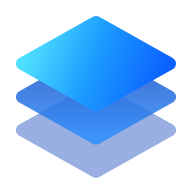
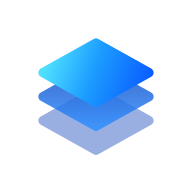
홈 화면 아이콘 로고 비율을 남색 바탕 때(84%)로, 상단 로고를 28px로
- planner-192·512, apple-touch-icon: 투명 바탕은 유지하고 로고 크기를 남색 바탕 아이콘과 같은 비율(512 기준 0.84 배율)로 줄임
- 플래너·자산 상단 로고 22px → 28px
- 자산 버전 552 → 553

Claude-Session: https://claude.ai/code/session_01Ek3VF4UfDGVBZt9VnxKtgV

Changed region(s): [[0.0625, 0.0625, 0.9375, 0.9375]]

diff --git a/index.html b/index.html
@@ -23,15 +23,15 @@
   <meta name="apple-mobile-web-app-title" content="매매 플래너" />
   <meta name="apple-mobile-web-app-status-bar-style" content="default" />
   <link rel="preconnect" href="https://cdn.jsdelivr.net" crossorigin />
-  <script src="js/theme.js?v=552"></script>
+  <script src="js/theme.js?v=553"></script>
   <link rel="stylesheet" href="https://cdn.jsdelivr.net/gh/orioncactus/pretendard@v1.3.9/dist/web/variable/pretendardvariable-dynamic-subset.min.css" />
-  <link rel="stylesheet" href="css/safe-area.css?v=552" />
-  <link rel="stylesheet" href="css/app.css?v=552" />
-  <link rel="stylesheet" href="css/purchases.css?v=552" />
-  <link rel="stylesheet" href="css/page-leave.css?v=552" />
-  <script src="js/repo-security.js?v=552" defer></script>
-  <script src="js/gold-estimate.js?v=552" defer></script>
-  <script src="js/money-input.js?v=552" defer></script>
+  <link rel="stylesheet" href="css/safe-area.css?v=553" />
+  <link rel="stylesheet" href="css/app.css?v=553" />
+  <link rel="stylesheet" href="css/purchases.css?v=553" />
+  <link rel="stylesheet" href="css/page-leave.css?v=553" />
+  <script src="js/repo-security.js?v=553" defer></script>
+  <script src="js/gold-estimate.js?v=553" defer></script>
+  <script src="js/money-input.js?v=553" defer></script>
 </head>
 <body class="planner-page">
   <header class="top">
@@ -360,36 +360,36 @@
   <dialog id="futureRebuyStartDialog" aria-labelledby="futureRebuyStartTitle"></dialog>
   <dialog id="rebuyRuleDialog" aria-labelledby="rebuyRuleTitle"></dialog>
 
-  <script src="js/ma-ladder.js?v=552" defer></script>
-  <script src="js/split-auto.js?v=552" defer></script>
-  <script src="js/data-validation.js?v=552" defer></script>
-  <script src="js/core.js?v=552" defer></script>
-  <script src="js/price-collection.js?v=552" defer></script>
-  <script src="js/page-leave.js?v=552" defer></script>
-  <script src="js/sync.js?v=552" defer></script>
-  <script src="js/prices.js?v=552" defer></script>
-  <script src="js/assets-calc.js?v=552" defer></script>
-  <script src="js/assets-store.js?v=552" defer></script>
-  <script src="js/alloc-link.js?v=552" defer></script>
-  <script src="js/stock-names.js?v=552" defer></script>
-  <script src="js/item-search.js?v=552" defer></script>
-  <script src="js/purchases.js?v=552" defer></script>
-  <script src="js/trade-alerts.js?v=552" defer></script>
-  <script src="js/plans.js?v=552" defer></script>
-  <script src="js/futures.js?v=552" defer></script>
-  <script src="js/futures-plan.js?v=552" defer></script>
-  <script src="js/futures-rebuy.js?v=552" defer></script>
-  <script src="js/rebuy.js?v=552" defer></script>
-  <script src="js/alerts.js?v=552" defer></script>
-  <script src="js/alert-target.js?v=552" defer></script>
-  <script src="js/alert-history-store.js?v=552" defer></script>
-  <script src="js/alert-history.js?v=552" defer></script>
-  <script src="js/push.js?v=552" defer></script>
-  <script src="js/member-link.js?v=552" defer></script>
-  <script src="js/member-go.js?v=552" defer></script>
-  <script src="js/split-adjust.js?v=552" defer></script>
-  <script src="js/split-dialog.js?v=552" defer></script>
-  <script src="js/split-notices.js?v=552" defer></script>
-  <script src="js/start.js?v=552" defer></script>
+  <script src="js/ma-ladder.js?v=553" defer></script>
+  <script src="js/split-auto.js?v=553" defer></script>
+  <script src="js/data-validation.js?v=553" defer></script>
+  <script src="js/core.js?v=553" defer></script>
+  <script src="js/price-collection.js?v=553" defer></script>
+  <script src="js/page-leave.js?v=553" defer></script>
+  <script src="js/sync.js?v=553" defer></script>
+  <script src="js/prices.js?v=553" defer></script>
+  <script src="js/assets-calc.js?v=553" defer></script>
+  <script src="js/assets-store.js?v=553" defer></script>
+  <script src="js/alloc-link.js?v=553" defer></script>
+  <script src="js/stock-names.js?v=553" defer></script>
+  <script src="js/item-search.js?v=553" defer></script>
+  <script src="js/purchases.js?v=553" defer></script>
+  <script src="js/trade-alerts.js?v=553" defer></script>
+  <script src="js/plans.js?v=553" defer></script>
+  <script src="js/futures.js?v=553" defer></script>
+  <script src="js/futures-plan.js?v=553" defer></script>
+  <script src="js/futures-rebuy.js?v=553" defer></script>
+  <script src="js/rebuy.js?v=553" defer></script>
+  <script src="js/alerts.js?v=553" defer></script>
+  <script src="js/alert-target.js?v=553" defer></script>
+  <script src="js/alert-history-store.js?v=553" defer></script>
+  <script src="js/alert-history.js?v=553" defer></script>
+  <script src="js/push.js?v=553" defer></script>
+  <script src="js/member-link.js?v=553" defer></script>
+  <script src="js/member-go.js?v=553" defer></script>
+  <script src="js/split-adjust.js?v=553" defer></script>
+  <script src="js/split-dialog.js?v=553" defer></script>
+  <script src="js/split-notices.js?v=553" defer></script>
+  <script src="js/start.js?v=553" defer></script>
 </body>
 </html>

diff --git a/assets.html b/assets.html
@@ -24,15 +24,15 @@
   <meta name="apple-mobile-web-app-title" content="매매 플래너" />
   <meta name="apple-mobile-web-app-status-bar-style" content="default" />
   <link rel="preconnect" href="https://cdn.jsdelivr.net" crossorigin />
-  <script src="js/theme.js?v=552"></script>
+  <script src="js/theme.js?v=553"></script>
   <link rel="stylesheet" href="https://cdn.jsdelivr.net/gh/orioncactus/pretendard@v1.3.9/dist/web/variable/pretendardvariable-dynamic-subset.min.css" />
-  <link rel="stylesheet" href="css/safe-area.css?v=552" />
-  <link rel="stylesheet" href="css/app.css?v=552" />
-  <link rel="stylesheet" href="css/assets.css?v=552" />
-  <link rel="stylesheet" href="css/page-leave.css?v=552" />
-  <script src="js/repo-security.js?v=552" defer></script>
-  <script src="js/gold-estimate.js?v=552" defer></script>
-  <script src="js/money-input.js?v=552" defer></script>
+  <link rel="stylesheet" href="css/safe-area.css?v=553" />
+  <link rel="stylesheet" href="css/app.css?v=553" />
+  <link rel="stylesheet" href="css/assets.css?v=553" />
+  <link rel="stylesheet" href="css/page-leave.css?v=553" />
+  <script src="js/repo-security.js?v=553" defer></script>
+  <script src="js/gold-estimate.js?v=553" defer></script>
+  <script src="js/money-input.js?v=553" defer></script>
 </head>
 <body class="assets-page">
   <header class="top">
@@ -161,22 +161,22 @@
     <p class="file-tools">JSON 파일 <button class="text-link" id="exportBtn" type="button">백업</button> · <label class="text-link" for="importInput">복원<input id="importInput" type="file" accept="application/json" hidden /></label></p>
   </div></dialog>
 
-  <script src="js/ma-ladder.js?v=552" defer></script>
-  <script src="js/split-auto.js?v=552" defer></script>
-  <script src="js/data-validation.js?v=552" defer></script>
-  <script src="js/assets-calc.js?v=552" defer></script>
-  <script src="js/price-collection.js?v=552" defer></script>
-  <script src="js/page-leave.js?v=552" defer></script>
-  <script src="js/assets-store.js?v=552" defer></script>
-  <script src="js/alloc-link.js?v=552" defer></script>
-  <script src="js/member-link.js?v=552" defer></script>
-  <script src="js/stock-names.js?v=552" defer></script>
-  <script src="js/ledger-benchmark.js?v=552" defer></script>
-  <script src="js/assets.js?v=552" defer></script>
-  <script src="js/assets-ledger.js?v=552" defer></script>
-  <script src="js/assets-savings.js?v=552" defer></script>
-  <script src="js/assets-installments.js?v=552" defer></script>
-  <script src="js/split-notices.js?v=552" defer></script>
-  <script src="js/assets-start.js?v=552" defer></script>
+  <script src="js/ma-ladder.js?v=553" defer></script>
+  <script src="js/split-auto.js?v=553" defer></script>
+  <script src="js/data-validation.js?v=553" defer></script>
+  <script src="js/assets-calc.js?v=553" defer></script>
+  <script src="js/price-collection.js?v=553" defer></script>
+  <script src="js/page-leave.js?v=553" defer></script>
+  <script src="js/assets-store.js?v=553" defer></script>
+  <script src="js/alloc-link.js?v=553" defer></script>
+  <script src="js/member-link.js?v=553" defer></script>
+  <script src="js/stock-names.js?v=553" defer></script>
+  <script src="js/ledger-benchmark.js?v=553" defer></script>
+  <script src="js/assets.js?v=553" defer></script>
+  <script src="js/assets-ledger.js?v=553" defer></script>
+  <script src="js/assets-savings.js?v=553" defer></script>
+  <script src="js/assets-installments.js?v=553" defer></script>
+  <script src="js/split-notices.js?v=553" defer></script>
+  <script src="js/assets-start.js?v=553" defer></script>
 </body>
 </html>

diff --git a/valuation.html b/valuation.html
@@ -22,17 +22,17 @@
   <meta name="apple-mobile-web-app-title" content="매매 플래너">
   <meta name="apple-mobile-web-app-status-bar-style" content="default">
   <link rel="preconnect" href="https://cdn.jsdelivr.net" crossorigin>
-  <script src="js/theme.js?v=552"></script>
+  <script src="js/theme.js?v=553"></script>
   <link rel="stylesheet" href="https://cdn.jsdelivr.net/gh/orioncactus/pretendard@v1.3.9/dist/web/variable/pretendardvariable-dynamic-subset.min.css">
   <title>AI 구독 · 삼성SDI · ETF · 환율 시나리오</title>
   <meta name="description" content="AI 구독사업, 삼성SDI, ETF의 장기 가치와 한미 GDP·M2로 계산한 원·달러 상대 통화압력을 살펴봅니다.">
-  <link rel="stylesheet" href="css/safe-area.css?v=552">
-  <link rel="stylesheet" href="css/currency-pressure.css?v=552">
-  <link rel="stylesheet" href="css/valuation.css?v=552">
-  <link rel="stylesheet" href="css/page-leave.css?v=552">
-  <script src="js/repo-security.js?v=552" defer></script>
-  <script src="js/gold-estimate.js?v=552" defer></script>
-  <script src="js/money-input.js?v=552" defer></script>
+  <link rel="stylesheet" href="css/safe-area.css?v=553">
+  <link rel="stylesheet" href="css/currency-pressure.css?v=553">
+  <link rel="stylesheet" href="css/valuation.css?v=553">
+  <link rel="stylesheet" href="css/page-leave.css?v=553">
+  <script src="js/repo-security.js?v=553" defer></script>
+  <script src="js/gold-estimate.js?v=553" defer></script>
+  <script src="js/money-input.js?v=553" defer></script>
 </head>
 <body>
 <header class="top">
@@ -483,8 +483,8 @@
     <p class="tiny" style="margin:12px 0 0">직접 바꾼 값만 저장합니다. 바꾸지 않은 기준 종가·시총 등은 페이지가 갱신되면 새 기준값을 따릅니다.</p>
   </div>
 </dialog>
-<script src="js/page-leave.js?v=552" defer></script>
-<script src="js/valuation.js?v=552" defer></script>
-<script src="js/currency-pressure.js?v=552" defer></script>
+<script src="js/page-leave.js?v=553" defer></script>
+<script src="js/valuation.js?v=553" defer></script>
+<script src="js/currency-pressure.js?v=553" defer></script>
 </body>
 </html>

diff --git a/css/app.css b/css/app.css
@@ -366,8 +366,8 @@ details.future-roll>.future-roll-head::before{content:"";width:6px;height:6px;bo
 .planner-page .planner-brand{display:flex;align-items:center;gap:8px;min-width:0}
 .planner-page .top .brand{gap:9px;font-size:17px;font-weight:800;letter-spacing:-.04em}
 /* 로고(플래너·자산 상단 공통): 앱 아이콘(push-icon.svg)의 파란 마름모 3겹(아래 두 겹은 반투명)만 투명 바탕에 표시 */
-:is(.planner-page,.assets-page) .top .brand b{flex:none;width:22px;height:22px;border-radius:0;background:none;box-shadow:none}
-:is(.planner-page,.assets-page) .top .brand svg{width:22px;height:22px}
+:is(.planner-page,.assets-page) .top .brand b{flex:none;width:28px;height:28px;border-radius:0;background:none;box-shadow:none}
+:is(.planner-page,.assets-page) .top .brand svg{width:28px;height:28px}
 .planner-page .top .sync-head{gap:8px;margin:0}
 .planner-page .sync-head .btn.mini{
   height:28px;margin:0;border:0;border-radius:9999px;background:var(--planner-soft);color:var(--text);

diff --git a/push-sw.js b/push-sw.js
@@ -1,5 +1,5 @@
 // 수신 알림의 당시 내용을 로컬 수신함에 저장한다. 토큰·매매 기록을 캐시하거나 네트워크로 보내지 않는다.
-importScripts("js/alert-target.js?v=552","js/alert-history-store.js?v=552","js/stock-names.js?v=552");
+importScripts("js/alert-target.js?v=553","js/alert-history-store.js?v=553","js/stock-names.js?v=553");
 self.addEventListener("install",event=>event.waitUntil(self.skipWaiting()));
 self.addEventListener("activate",event=>event.waitUntil(self.clients.claim()));
 // 수집기가 조건이 풀린 회차의 발송 eventId를 kind "alertClear"로 보내면 같은 tag의 알림만 닫고, 알림내역 저장·새 알림 표시는 하지 않는다.
